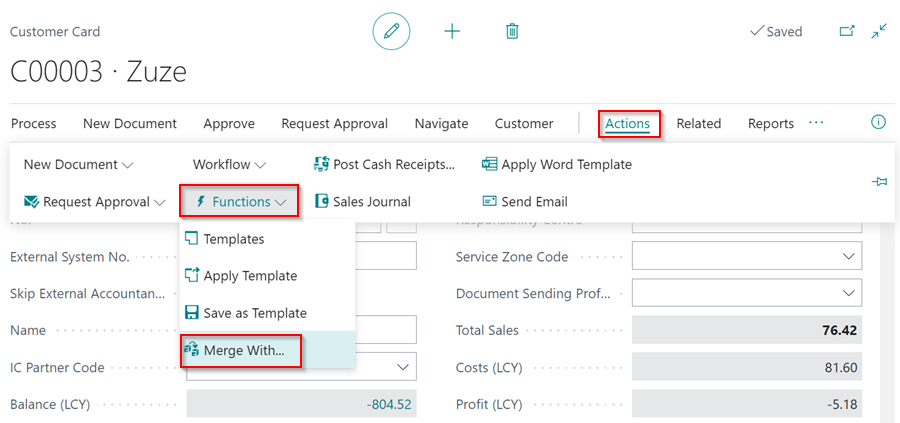
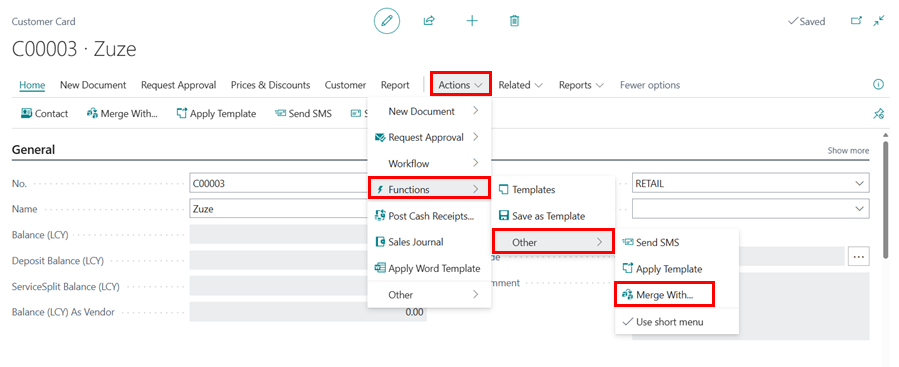
customer merge

diff --git a/docs/garagehive-merge-duplicate-records.md b/docs/garagehive-merge-duplicate-records.md
@@ -7,7 +7,7 @@ title: How to Merge Duplicate Records
 As different users create new customer, vendor, or contact cards over time, or as new records are created automatically during migration, a customer, vendor, or contact cards may be represented in the system by more than one record. In this case, you can use the **Merge Duplicate** page from the card of the record that you want to keep.
 The following procedure is based on a customer card. The steps are similar for a vendor and contact cards:
 1. Select the **Customers** list, and then choose the customer record that you want to keep.
-2. Select **Actions** from the menu bar (if not visible click on **More Options**), then select **Functions** followed by **Merge With**.
+2. Select **Actions** from the menu bar (if not visible click on **More Options**), select **Functions** followed by **Other** and then **Merge With**.
 
    ![](media/garagehive-customer-merge-record1.png)
 
